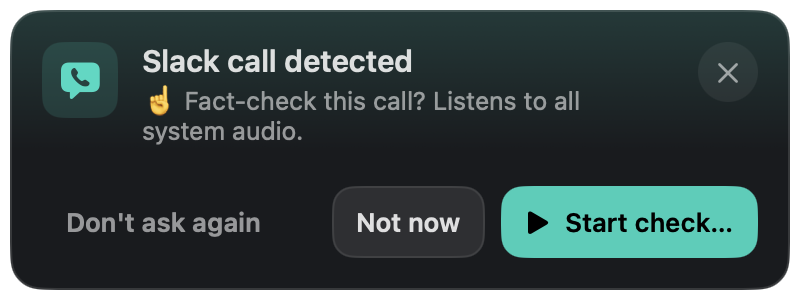
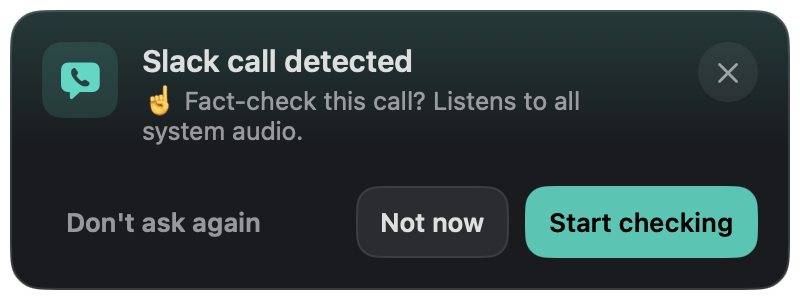
Point the Ackshually listing at v0.1.1

diff --git a/index.html b/index.html
@@ -91,8 +91,8 @@
 </article>
 
 <article class="entry" id="ackshually" aria-labelledby="ackshually-title">
-<div class="entry-code"><span class="code">T-04</span><span class="status live"><i></i>Public source · v0.1.0</span></div>
-<figure class="plate plate-stack"><img src="assets/tools/ackshually-toast.png" width="800" height="520" alt="Ackshually's correction toast, reading umm... ackshually... over the claim &quot;The Atlas release is scheduled for Friday,&quot; with a note that the sample release note lists Thursday, 12 November, and an Open details button" loading="lazy"><img src="assets/tools/ackshually-call-prompt.png" width="800" height="300" alt="Ackshually's Slack call prompt, reading Slack call detected, fact-check this call, with Don't ask again, Not now and Start check buttons" loading="lazy"></figure>
+<div class="entry-code"><span class="code">T-04</span><span class="status live"><i></i>Public source · v0.1.1</span></div>
+<figure class="plate plate-stack"><img src="assets/tools/ackshually-toast.png" width="800" height="520" alt="Ackshually's correction toast, reading umm... ackshually... over the claim &quot;The Atlas release is scheduled for Friday,&quot; with a note that the sample release note lists Thursday, 12 November, and an Open details button" loading="lazy"><img src="assets/tools/ackshually-call-prompt.png" width="800" height="300" alt="Ackshually's Slack call prompt, reading Slack call detected, fact-check this call, with Don't ask again, Not now and Start checking buttons" loading="lazy"></figure>
 <div class="entry-copy"><p class="label">Live fact checking · macOS</p><h3 id="ackshually-title">Ackshually</h3><p class="pitch">A fact-check that pops up while you're still talking.</p>
 <p>Ackshually sits in the menu bar and listens to a Slack huddle, a YouTube video, or any app playing audio, then transcribes it on your Mac.</p>
 <p>Each claim it catches gets checked against your own notes, such as an Obsidian vault, or the public web. When a claim and a source disagree, a small toast shows the correction and where it came from.</p>
